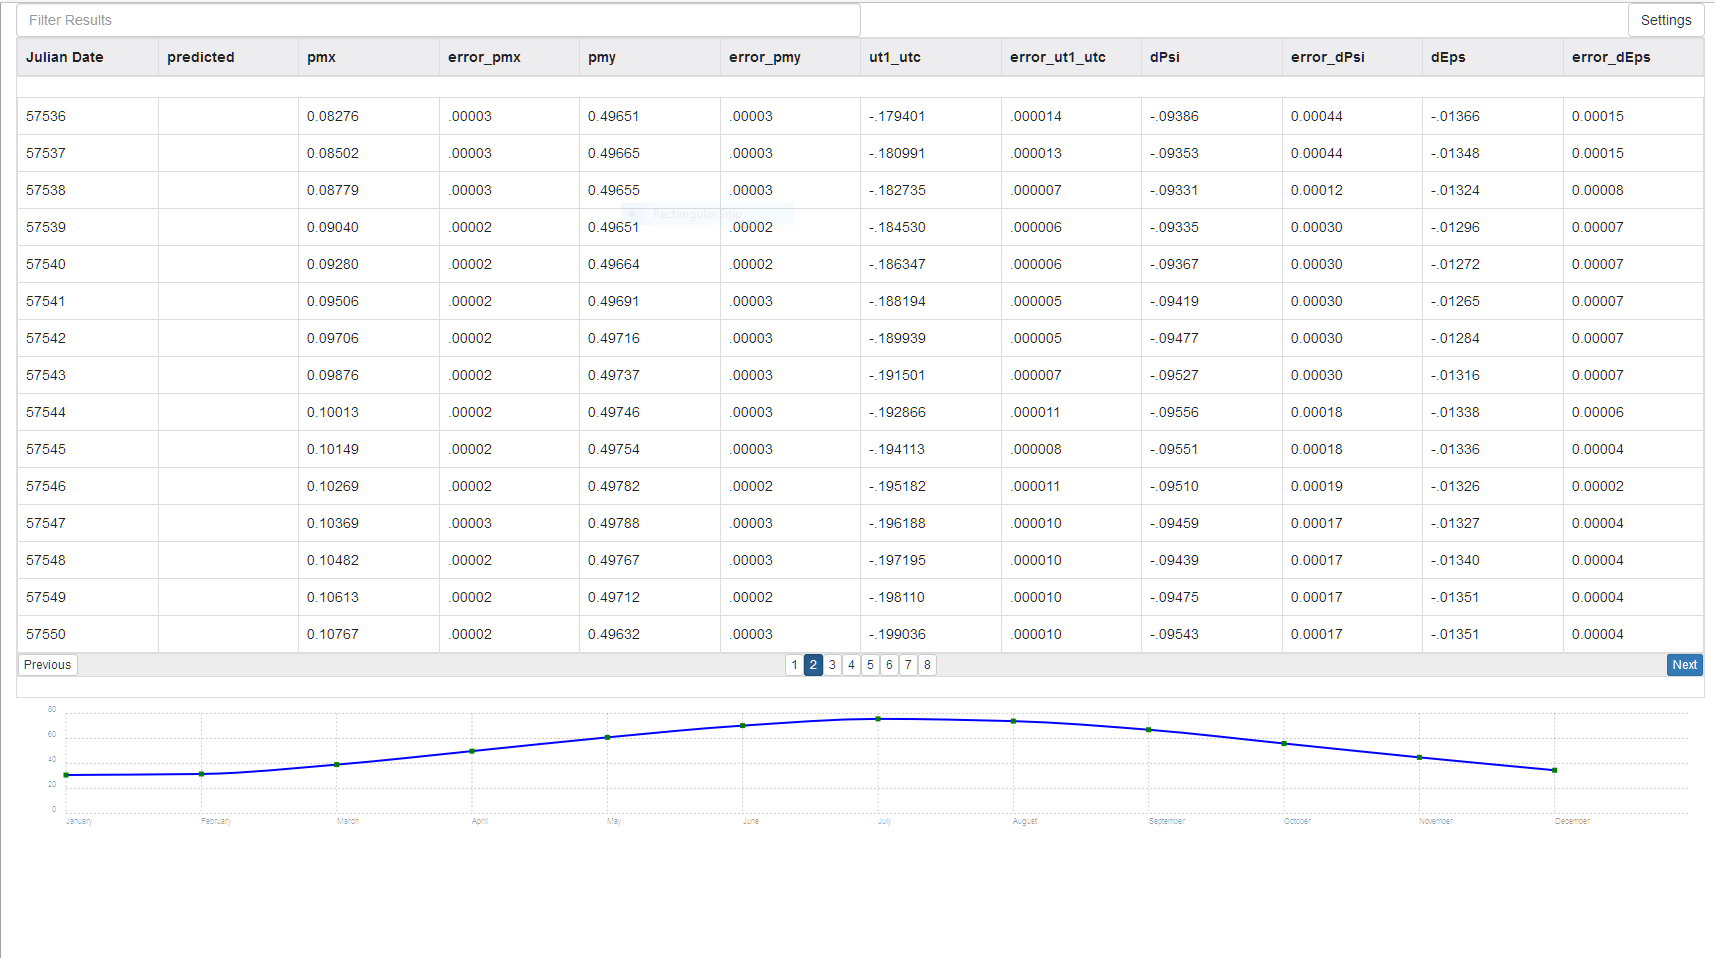
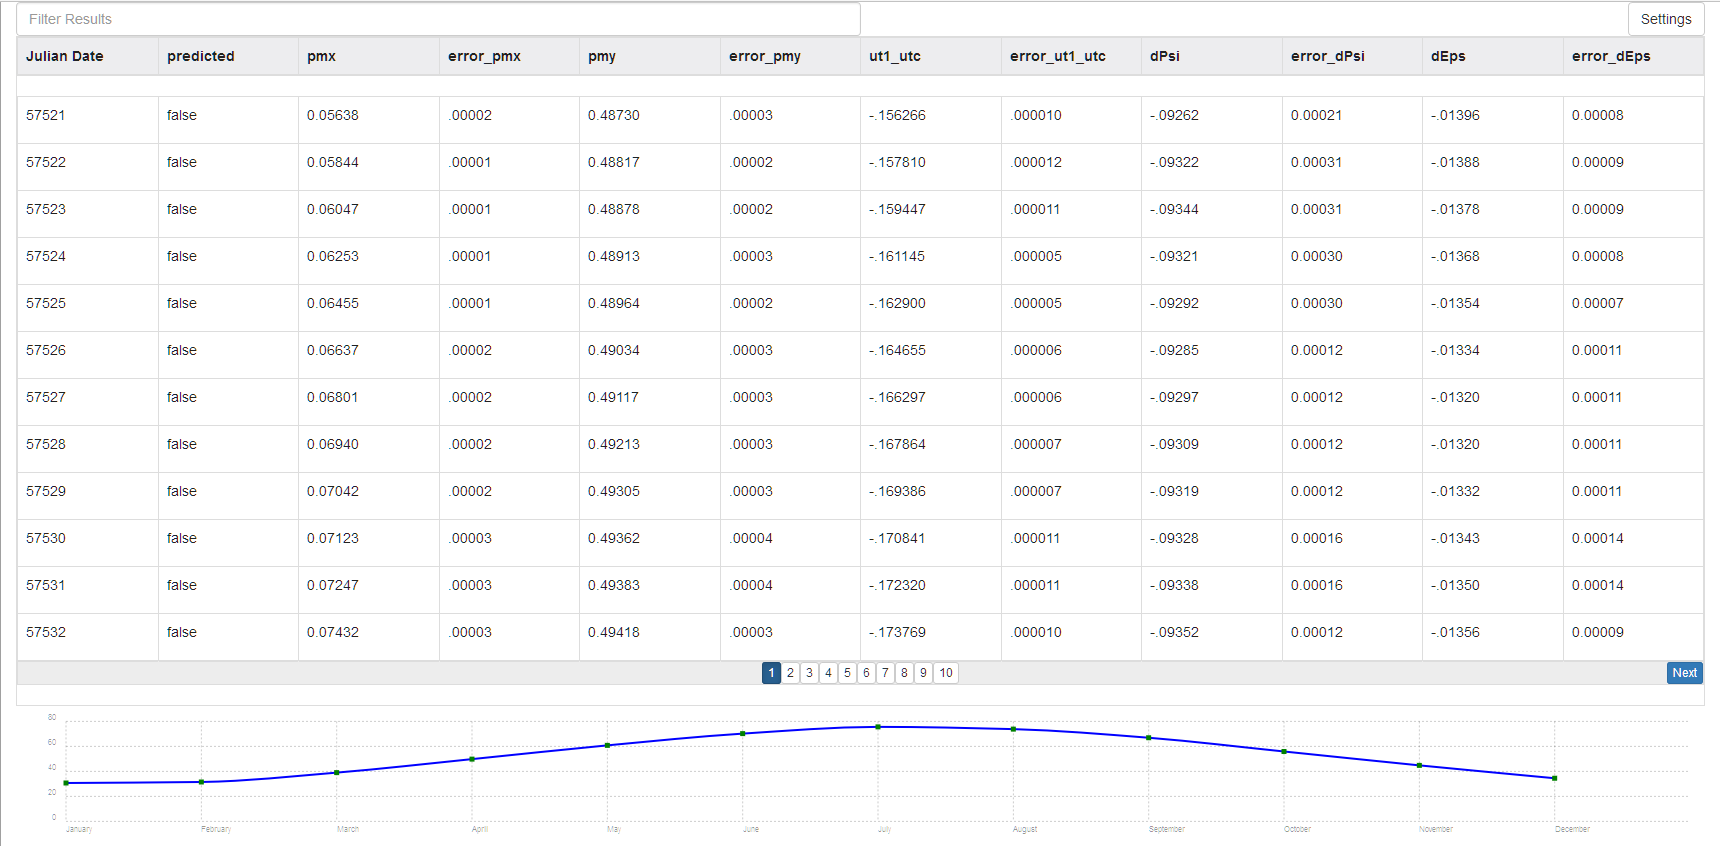
Updated screenshot

diff --git a/imports/ui/App.jsx b/imports/ui/App.jsx
@@ -56,7 +56,7 @@ class App extends Component {
         return (
             <div>
                 <div>
-                    <Griddle results={this.props.eopDaily} tableClassName={'table table-bordered table-striped table-hover'} useGriddleStyles={false} showFilter={true} columnMetadata={ julianMetadata } useFixedHeader={true} bodyHeight={400} settingsToggleClassName='btn btn-default' showSettings={true} useCustomPagerComponent={true} customPagerComponent={CustomPager} resultsPerPage={15}/>
+                    <Griddle results={this.props.eopDaily} tableClassName={'table table-bordered table-striped table-hover'} useGriddleStyles={false} showFilter={true} columnMetadata={ julianMetadata } useFixedHeader={true} bodyHeight={400} settingsToggleClassName='btn btn-default' showSettings={true} useCustomPagerComponent={true} customPagerComponent={CustomPager} resultsPerPage={12}/>
                 </div>
                 <div class="ct-chart ct-perfect-fourth">
                     <ChartistGraph data={data} options={options} responsiveOptions={responsiveOptions} type={'Line'} />
